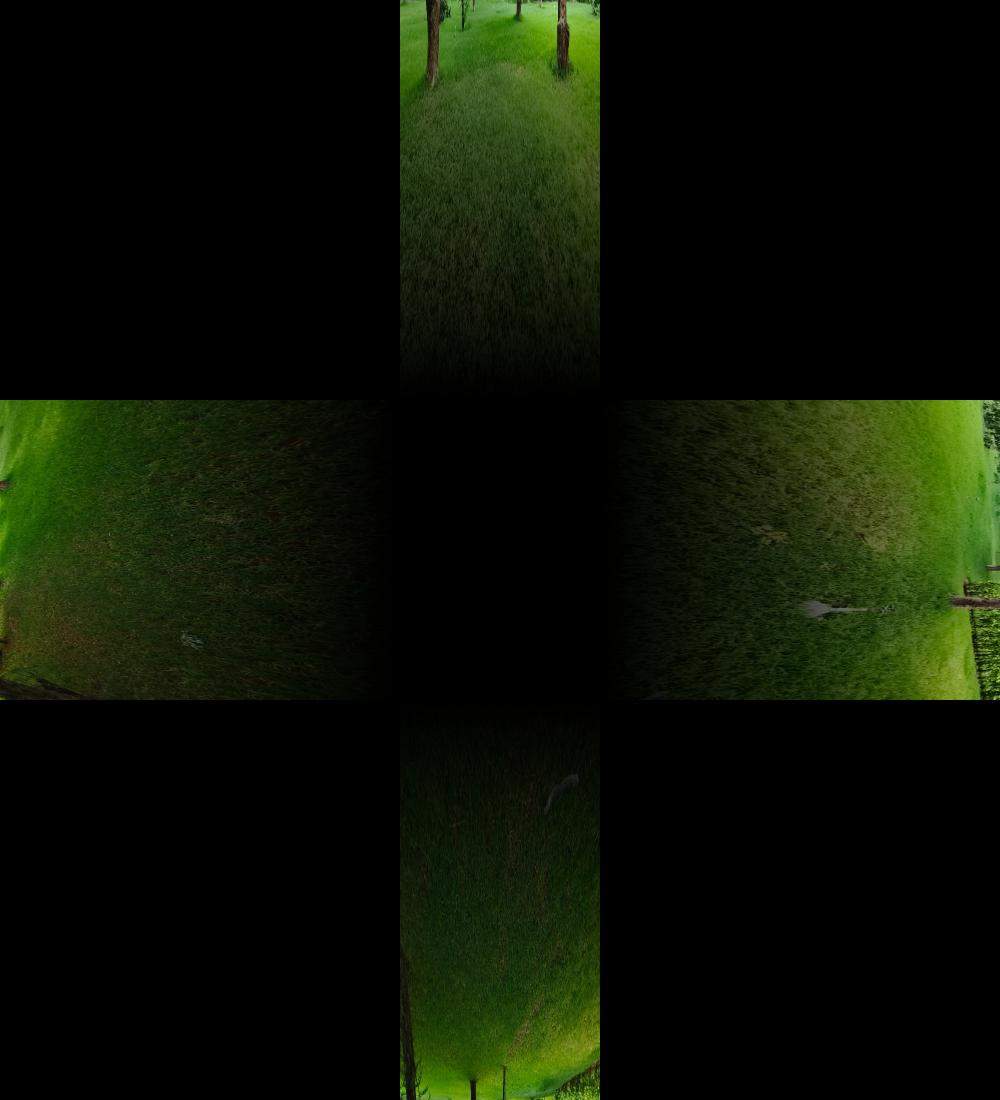
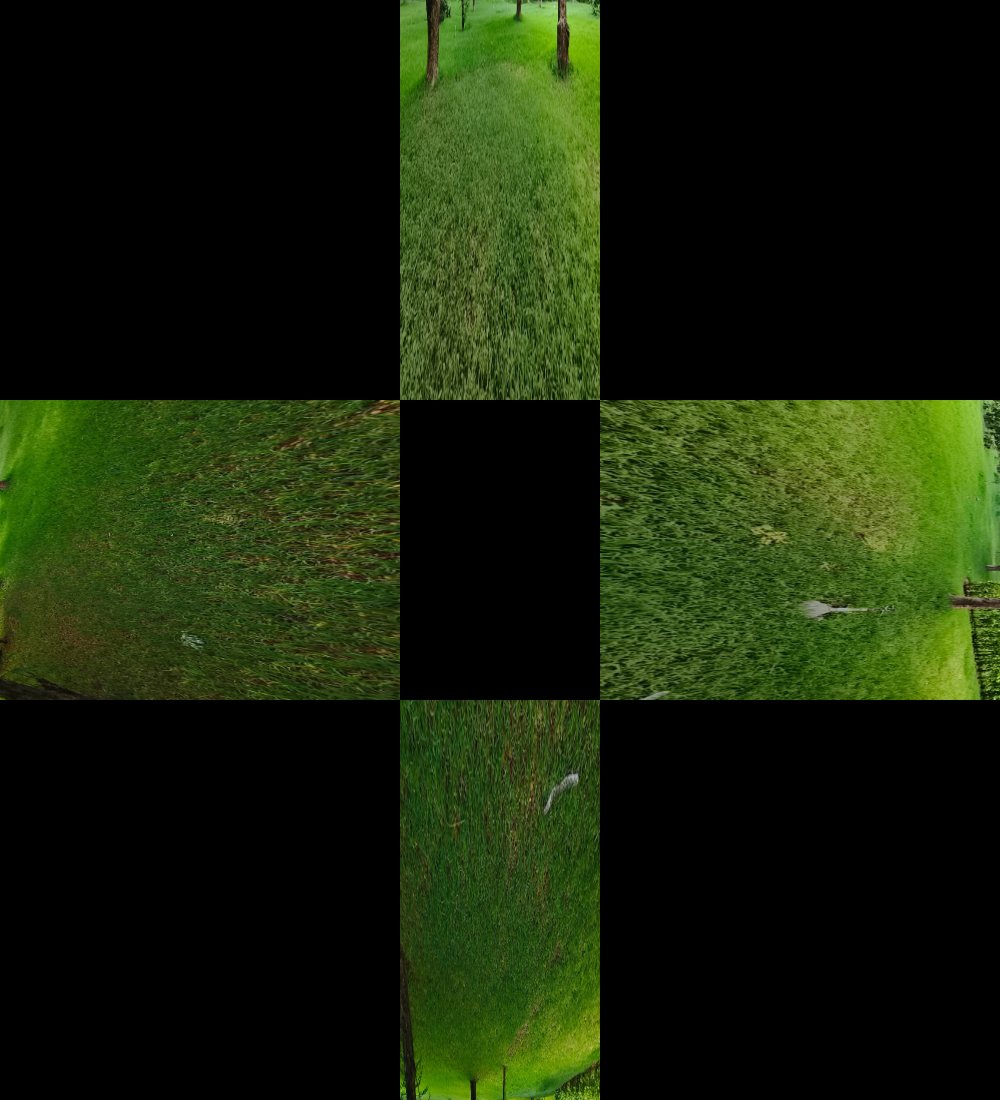
experimenting with stitcher code

Changed region(s): [[0.093, 0.0309, 0.961, 0.9582]]

diff --git a/sticher2.py b/sticher2.py
@@ -1,40 +1,39 @@
 import cv2
 import numpy as np
 
+
 def get_top_down_view(image, src_points):
     """
     Applies a top-down perspective transform to an image.
-    
+
     Args:
         image: The input image from a single camera.
         src_points: A NumPy array of 4 points in the source image.
                     These points should form a trapezoid on the ground.
-    
+
     Returns:
         The warped image, which is a top-down view.
     """
     # Define the width and height of the output top-down image
-    # These can be tuned to your preference
     width, height = 400, 400
 
     # Define the 4 destination points for the top-down view (a rectangle)
-    # The order must correspond to the order of src_points
     dst_points = np.float32([
-        [0, 0],         # Top-left
-        [width, 0],     # Top-right
-        [width, height],# Bottom-right
-        [0, height]     # Bottom-left
+        [0, 0],          # Top-left
+        [width, 0],      # Top-right
+        [width, height], # Bottom-right
+        [0, height]      # Bottom-left
     ])
 
     # Calculate the perspective transform matrix M
     M = cv2.getPerspectiveTransform(src_points, dst_points)
-    
+
     # Apply the perspective warp to get the top-down view
     warped_image = cv2.warpPerspective(image, M, (width, height))
-    
+
     return warped_image
 
-# --- Main Execution ---
+
 if __name__ == "__main__":
     # --- 1. Load your four images ---
     front_img = cv2.imread("car_images/front_view.jpg")
@@ -42,112 +41,72 @@ if __name__ == "__main__":
     left_img = cv2.imread("car_images/left_view.jpg")
     right_img = cv2.imread("car_images/right_view.jpg")
 
-    # --- 2. DEFINE YOUR PERSPECTIVE POINTS (CRITICAL STEP!) ---
-    # These are placeholder values! You MUST find the correct points for YOUR cameras.
-    # The points should form a trapezoid on the ground in front of each camera.
-    # Format: np.float32([[top_left], [top_right], [bottom_right], [bottom_left]])
-    
-    # Example points for the FRONT camera
-    # You need to find these by looking at your front_img
+    # --- 2. Define perspective points ---
     src_front = np.float32([(9, 309), (1264, 343), (1132, 705), (231, 708)])
-
-    # Example points for the BACK camera (coordinates will be different)
     src_back = np.float32([(34, 346), (1242, 320), (1045, 709), (261, 708)])
-
-    # Example points for the LEFT camera
     src_left = np.float32([(11, 359), (1258, 333), (1080, 709), (297, 713)])
-
-    # Example points for the RIGHT camera
     src_right = np.float32([(36, 360), (1201, 339), (1113, 712), (265, 715)])
 
-    # --- 3. Apply the top-down warp to each image ---
+    # --- 3. Apply the top-down warp ---
     front_top_down = get_top_down_view(front_img, src_front)
     back_top_down = get_top_down_view(back_img, src_back)
     left_top_down = get_top_down_view(left_img, src_left)
     right_top_down = get_top_down_view(right_img, src_right)
-    cv2.imwrite("right-top-down.jpeg",right_top_down)
-    cv2.imwrite("front-top-down.jpeg",front_top_down)
-    cv2.imwrite("back-top-down.jpeg",back_top_down)
 
+    # Save intermediate warped images
+    cv2.imwrite("front-top-down.jpeg", front_top_down)
+    cv2.imwrite("back-top-down.jpeg", back_top_down)
+    cv2.imwrite("left-top-down.jpeg", left_top_down)
+    cv2.imwrite("right-top-down.jpeg", right_top_down)
 
-# --- 4. Combine the images into a single bird's-eye view ---
-def create_vertical_gradient_mask(height, width):
-    """Creates a mask with a vertical gradient (white at top, black at bottom)."""
-    mask = np.zeros((height, width, 3), dtype=np.float32)
-    # Create a linear gradient from 1.0 to 0.0
-    gradient = np.linspace(1, 0, height, dtype=np.float32)
-    # Apply the gradient to all columns and color channels
-    mask[:, :, 0] = gradient[:, np.newaxis]
-    mask[:, :, 1] = gradient[:, np.newaxis]
-    mask[:, :, 2] = gradient[:, np.newaxis]
-    return mask
+    # --- 4. Combine into bird's-eye view ---
+    h, w = front_top_down.shape[:2]
 
-# --- 4. Combine the images into a single bird's-eye view ---
-# Get dimensions of the warped images (assuming they are all 400x400)
-h, w = front_top_down.shape[:2]
+    # Car area size
+    car_area_width = 200
+    car_area_height = 300
 
-# Define the car area size
-car_area_width = 200
-car_area_height = 300
+    # Output canvas size
+    output_width = w + car_area_width + w
+    output_height = h + car_area_height + h
+    birds_eye_view = np.zeros((output_height, output_width, 3), dtype=np.uint8)
 
-# Calculate the output size dynamically
-output_width = w + car_area_width + w
-output_height = h + car_area_height + h
+    # Offsets
+    x_offset = w
+    y_offset = h
 
-# --- NEW: Create the gradient masks ---
-# This mask fades from top (1.0) to bottom (0.0). We'll reuse it for all views.
-mask = create_vertical_gradient_mask(h, w)
+    # Place FRONT image
+    front_resized = cv2.resize(front_top_down, (car_area_width, h))
+    birds_eye_view[0:h, x_offset:x_offset + car_area_width] = front_resized
 
-# --- Apply masks to the top-down views ---
-# We convert to float for multiplication and back to uint8 for display
-front_masked = cv2.multiply(front_top_down.astype(np.float32), mask).astype(np.uint8)
-back_masked = cv2.multiply(back_top_down.astype(np.float32), mask).astype(np.uint8)
-left_masked = cv2.multiply(left_top_down.astype(np.float32), mask).astype(np.uint8)
-right_masked = cv2.multiply(right_top_down.astype(np.float32), mask).astype(np.uint8)
+    # Place BACK image (flipped 180°)
+    back_flipped = cv2.rotate(back_top_down, cv2.ROTATE_180)
+    back_resized = cv2.resize(back_flipped, (car_area_width, h))
+    birds_eye_view[y_offset + car_area_height:y_offset + car_area_height + h,
+                   x_offset:x_offset + car_area_width] = back_resized
 
+    # Place LEFT image (rotated)
+    left_rotated = cv2.rotate(left_top_down, cv2.ROTATE_90_COUNTERCLOCKWISE)
+    left_resized = cv2.resize(left_rotated, (w, car_area_height))
+    birds_eye_view[y_offset:y_offset + car_area_height, 0:w] = left_resized
 
-# --- Create the canvas and place the images using addition for blending ---
-birds_eye_view = np.zeros((output_height, output_width, 3), dtype=np.uint8)
-x_offset = w
-y_offset = h
+    # Place RIGHT image (rotated)
+    right_rotated = cv2.rotate(right_top_down, cv2.ROTATE_90_CLOCKWISE)
+    right_resized = cv2.resize(right_rotated, (w, car_area_height))
+    birds_eye_view[y_offset:y_offset + car_area_height,
+                   x_offset + car_area_width:x_offset + car_area_width + w] = right_resized
 
-# --- Place FRONT image ---
-front_resized = cv2.resize(front_masked, (car_area_width, h))
-# Use cv2.add() to blend instead of direct assignment
-birds_eye_view[0:h, x_offset:x_offset + car_area_width] = cv2.add(
-    birds_eye_view[0:h, x_offset:x_offset + car_area_width], front_resized)
+    # # Optional: Overlay car icon
+    # car_icon = cv2.imread("car_icon.png")
+    # if car_icon is not None:
+    #     car_icon = cv2.resize(car_icon, (car_area_width, car_area_height))
+    #     birds_eye_view[y_offset:y_offset + car_area_height,
+    #                    x_offset:x_offset + car_area_width] = car_icon
 
-# --- Place BACK image ---
-back_flipped = cv2.rotate(back_masked, cv2.ROTATE_180)
-back_resized = cv2.resize(back_flipped, (car_area_width, h))
-birds_eye_view[y_offset + car_area_height : y_offset + car_area_height + h, x_offset : x_offset + car_area_width] = cv2.add(
-    birds_eye_view[y_offset + car_area_height : y_offset + car_area_height + h, x_offset : x_offset + car_area_width], back_resized)
+    # --- 5. Save and Display ---
+    cv2.imwrite("birds_eye_view.png", birds_eye_view)
+    print("Bird's-eye view saved as 'birds_eye_view.png'")
 
-# --- Place LEFT image ---
-# The vertical gradient becomes horizontal after rotation
-left_rotated = cv2.rotate(left_masked, cv2.ROTATE_90_COUNTERCLOCKWISE)
-left_resized = cv2.resize(left_rotated, (w, car_area_height))
-birds_eye_view[y_offset : y_offset + car_area_height, 0:w] = cv2.add(
-    birds_eye_view[y_offset : y_offset + car_area_height, 0:w], left_resized)
-
-# --- Place RIGHT image ---
-# The vertical gradient becomes horizontal after rotation
-right_rotated = cv2.rotate(right_masked, cv2.ROTATE_90_CLOCKWISE)
-right_resized = cv2.resize(right_rotated, (w, car_area_height))
-birds_eye_view[y_offset:y_offset + car_area_height, x_offset + car_area_width : x_offset + car_area_width + w] = cv2.add(
-    birds_eye_view[y_offset:y_offset + car_area_height, x_offset + car_area_width : x_offset + car_area_width + w], right_resized)
-
-# --- Optional: Add a car icon in the middle ---
-# You can uncomment this now if you have a 'car_icon.png'
-# car_icon = cv2.imread("car_icon.png")
-# if car_icon is not None:
-#     car_icon = cv2.resize(car_icon, (car_area_width, car_area_height))
-#     birds_eye_view[y_offset:y_offset + car_area_height, x_offset:x_offset + car_area_width] = car_icon
-
-# --- 5. Save and Display the Result ---
-cv2.imwrite("birds_eye_view.png", birds_eye_view)
-print("Bird's-eye view saved as 'birds_eye_view.png'")
-
-cv2.imshow("Bird's Eye View", birds_eye_view)
-cv2.waitKey(0)
-cv2.destroyAllWindows()
+    cv2.imshow("Bird's Eye View", birds_eye_view)
+    cv2.waitKey(0)
+    cv2.destroyAllWindows()
